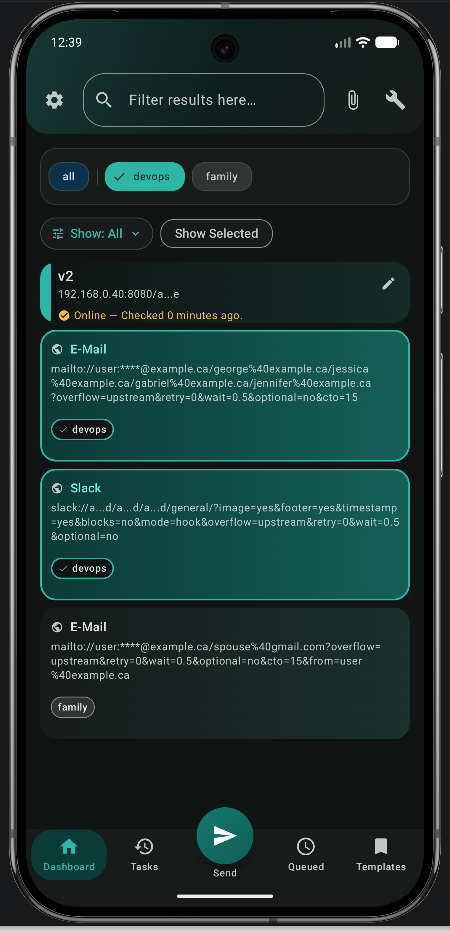
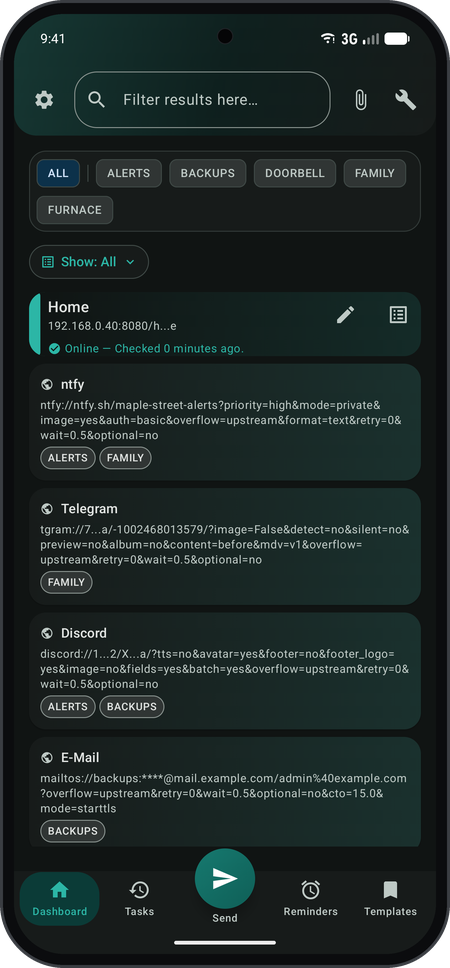
updated screenshots of mobile app

diff --git a/apprise_api/api/templates/components/mobile_app_dialog.html b/apprise_api/api/templates/components/mobile_app_dialog.html
@@ -53,15 +53,23 @@
           <img src="{% static 'mobile/apprise-mobile-dashboard.png' %}"
                alt="{% trans "Apprise Mobile dashboard" %}"
                width="450"
-               height="932"
+               height="968"
                loading="lazy">
           <figcaption>{% trans "Dashboard" %}</figcaption>
+        </figure>
+        <figure>
+          <img src="{% static 'mobile/apprise-mobile-reminders.png' %}"
+               alt="{% trans "Apprise Mobile reminders" %}"
+               width="450"
+               height="968"
+               loading="lazy">
+          <figcaption>{% trans "Reminders" %}</figcaption>
         </figure>
         <figure>
           <img src="{% static 'mobile/apprise-mobile-url-builder.png' %}"
                alt="{% trans "Apprise Mobile URL Builder" %}"
                width="450"
-               height="932"
+               height="968"
                loading="lazy">
           <figcaption>{% trans "URL Builder" %}</figcaption>
         </figure>
@@ -69,7 +77,7 @@
           <img src="{% static 'mobile/apprise-mobile-delivery-report.png' %}"
                alt="{% trans "Apprise Mobile delivery report" %}"
                width="450"
-               height="932"
+               height="968"
                loading="lazy">
           <figcaption>{% trans "Delivery Report" %}</figcaption>
         </figure>

diff --git a/apprise_api/static/css/base.css b/apprise_api/static/css/base.css
@@ -1692,7 +1692,7 @@ body.swal2-toast-shown .swal2-container {
 
 .mobile-app-dialog__screenshots {
   display: grid;
-  grid-template-columns: repeat(3, minmax(0, 1fr));
+  grid-template-columns: repeat(4, minmax(0, 1fr));
   gap: 0.75rem;
   margin-top: 0.75rem;
 }

diff --git a/apprise_api/api/tests/test_welcome.py b/apprise_api/api/tests/test_welcome.py
@@ -65,6 +65,15 @@ class WelcomePageTests(SimpleTestCase):
         self.assertNotContains(response, 'rel="noopener noreferrer"')
         self.assertContains(response, "window.appriseCloseMobileMenu();")
 
+    def test_mobile_app_dialog_previews_four_screens(self):
+        """The app preview shows the dashboard, reminders, URL Builder and delivery report."""
+        response = self.client.get("/")
+        for screen in ("dashboard", "reminders", "url-builder", "delivery-report"):
+            self.assertContains(response, f"mobile/apprise-mobile-{screen}.png")
+
+        self.assertContains(response, 'alt="Apprise Mobile reminders"')
+        self.assertContains(response, 'height="968"', count=4)
+
     def test_shared_popup_shell_and_task_abort_are_rendered(self):
         """Modal defaults distinguish dismissible dialogs from task aborts."""
         response = self.client.get("/cfg/popup_test")

diff --git a/README.md b/README.md
@@ -56,12 +56,14 @@ Android requires Android 8.0 or later. iPhone and iPad require iOS 17.2 or later
 
 <table>
 <tr>
-<th width="33%" align="center">Dashboard</th>
-<th width="33%" align="center">URL Builder</th>
-<th width="33%" align="center">Delivery Report</th>
+<th width="25%" align="center">Dashboard</th>
+<th width="25%" align="center">Reminders</th>
+<th width="25%" align="center">URL Builder</th>
+<th width="25%" align="center">Delivery Report</th>
 </tr>
 <tr>
 <td align="center"><img width="80%" alt="Apprise Mobile dashboard" src="https://raw.githubusercontent.com/caronc/apprise-api/master/apprise_api/static/mobile/apprise-mobile-dashboard.png"></td>
+<td align="center"><img width="80%" alt="Apprise Mobile reminders" src="https://raw.githubusercontent.com/caronc/apprise-api/master/apprise_api/static/mobile/apprise-mobile-reminders.png"></td>
 <td align="center"><img width="80%" alt="Apprise Mobile URL Builder" src="https://raw.githubusercontent.com/caronc/apprise-api/master/apprise_api/static/mobile/apprise-mobile-url-builder.png"></td>
 <td align="center"><img width="80%" alt="Apprise Mobile delivery report" src="https://raw.githubusercontent.com/caronc/apprise-api/master/apprise_api/static/mobile/apprise-mobile-delivery-report.png"></td>
 </tr>
